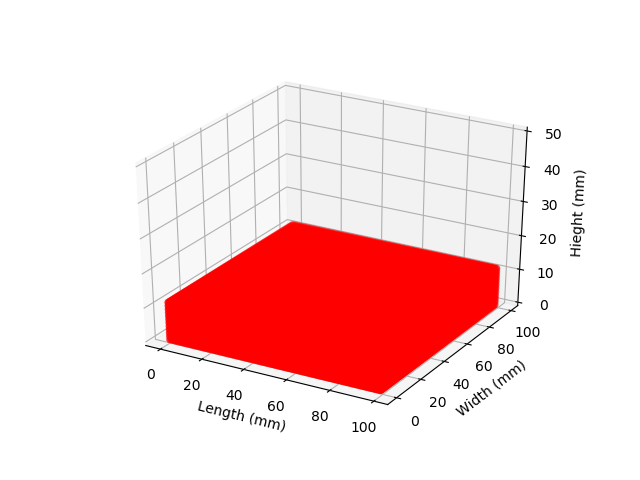
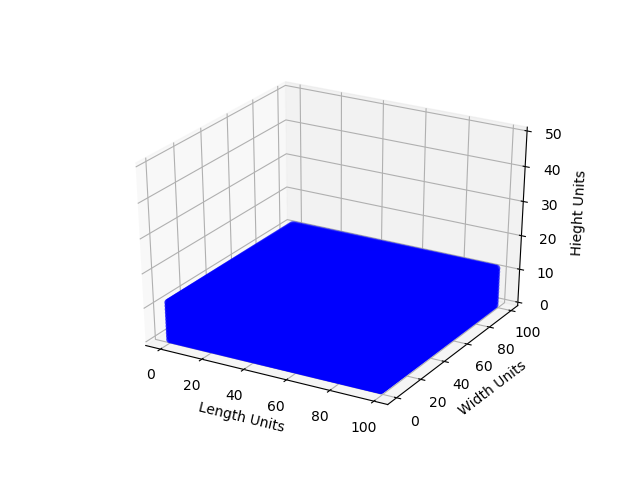
JSON file created for universal settings

diff --git a/navigation/matrixTest.py b/navigation/matrixTest.py
@@ -3,19 +3,24 @@ import datetime
 import cv2
 import matplotlib.pyplot as plt
 from mpl_toolkits.mplot3d import Axes3D
+import json
 
-#Resolution of matrix units in milimeters
-unitSize = 100
+#Load user adjustable variables from json file
+settingsFile = open('navigation\settings.json').read()
+settings = json.loads(settingsFile)
+
+#Resolution of matrix
+unitSize = settings['map']['unitSize']
 
 #Map Length, Width and Height (in milimeters)
-mapLength = 10000
-mapWidth = 10000
-mapHieght =5000
+mapLength = settings['map']['length']
+mapWidth = settings['map']['width']
+mapHieght = settings['map']['hieght']
 
 #Dimenisions of Autonomous Vechile(in milimeters)
-vechileLength = 900
-vechileWidth = 600
-vechileHieght = 1200
+vechileLength = settings['vechile']['length']
+vechileWidth = settings['vechile']['width']
+vechileHieght = settings['vechile']['hieght']
 
 #Determine matrix for map's size
 mapLengthUnits = mapLength/unitSize
@@ -56,15 +61,15 @@ print("STATUS: Plotting 3D Graph")
 
 fig = plt.figure()
 ax = fig.add_subplot(111, projection='3d')
-ax.scatter(x, y, z, zdir='z', c= 'red')
+ax.scatter(x, y, z, zdir='z', c= 'blue')
 #ax.view_init(60, 35)
 
 #Label Map
-ax.set_xlabel('Length (mm)')
-ax.set_ylabel('Width (mm)')
-ax.set_zlabel('Hieght (mm)')
+ax.set_xlabel('Length Units')
+ax.set_ylabel('Width Units')
+ax.set_zlabel('Hieght Units')
 ax.set_zlim(0,mapHieghtUnits)
 
-plt.savefig("navigation\map.png")
+plt.savefig('navigation\map.png')
 
 print("STATUS: Program Finished Running")

diff --git a/navigation/voxelPlotting.py b/navigation/voxelPlotting.py
@@ -2,19 +2,24 @@ from mpl_toolkits.mplot3d import Axes3D
 import numpy as np
 import matplotlib.pyplot as plt
 from mpl_toolkits.mplot3d.art3d import Poly3DCollection
+import json
 
-#SResolution of matrix units in milimeters
-unitSize = 100
+#Load user adjustable variables from json file
+settingsFile = open('navigation\settings.json').read()
+settings = json.loads(settingsFile)
+
+#Resolution of matrix
+unitSize = settings['map']['unitSize']
 
 #Map Length, Width and Height (in milimeters)
-mapLength = 10000
-mapWidth = 10000
-mapHieght =5000
+mapLength = settings['map']['length']
+mapWidth = settings['map']['width']
+mapHieght = settings['map']['hieght']
 
 #Dimenisions of Autonomous Vechile(in milimeters)
-vechileLength = 900
-vechileWidth = 600
-vechileHieght = 1200
+vechileLength = settings['vechile']['length']
+vechileWidth = settings['vechile']['width']
+vechileHieght = settings['vechile']['hieght']
 
 #Determine matrix for map's size
 mapLengthUnits = mapLength/unitSize
